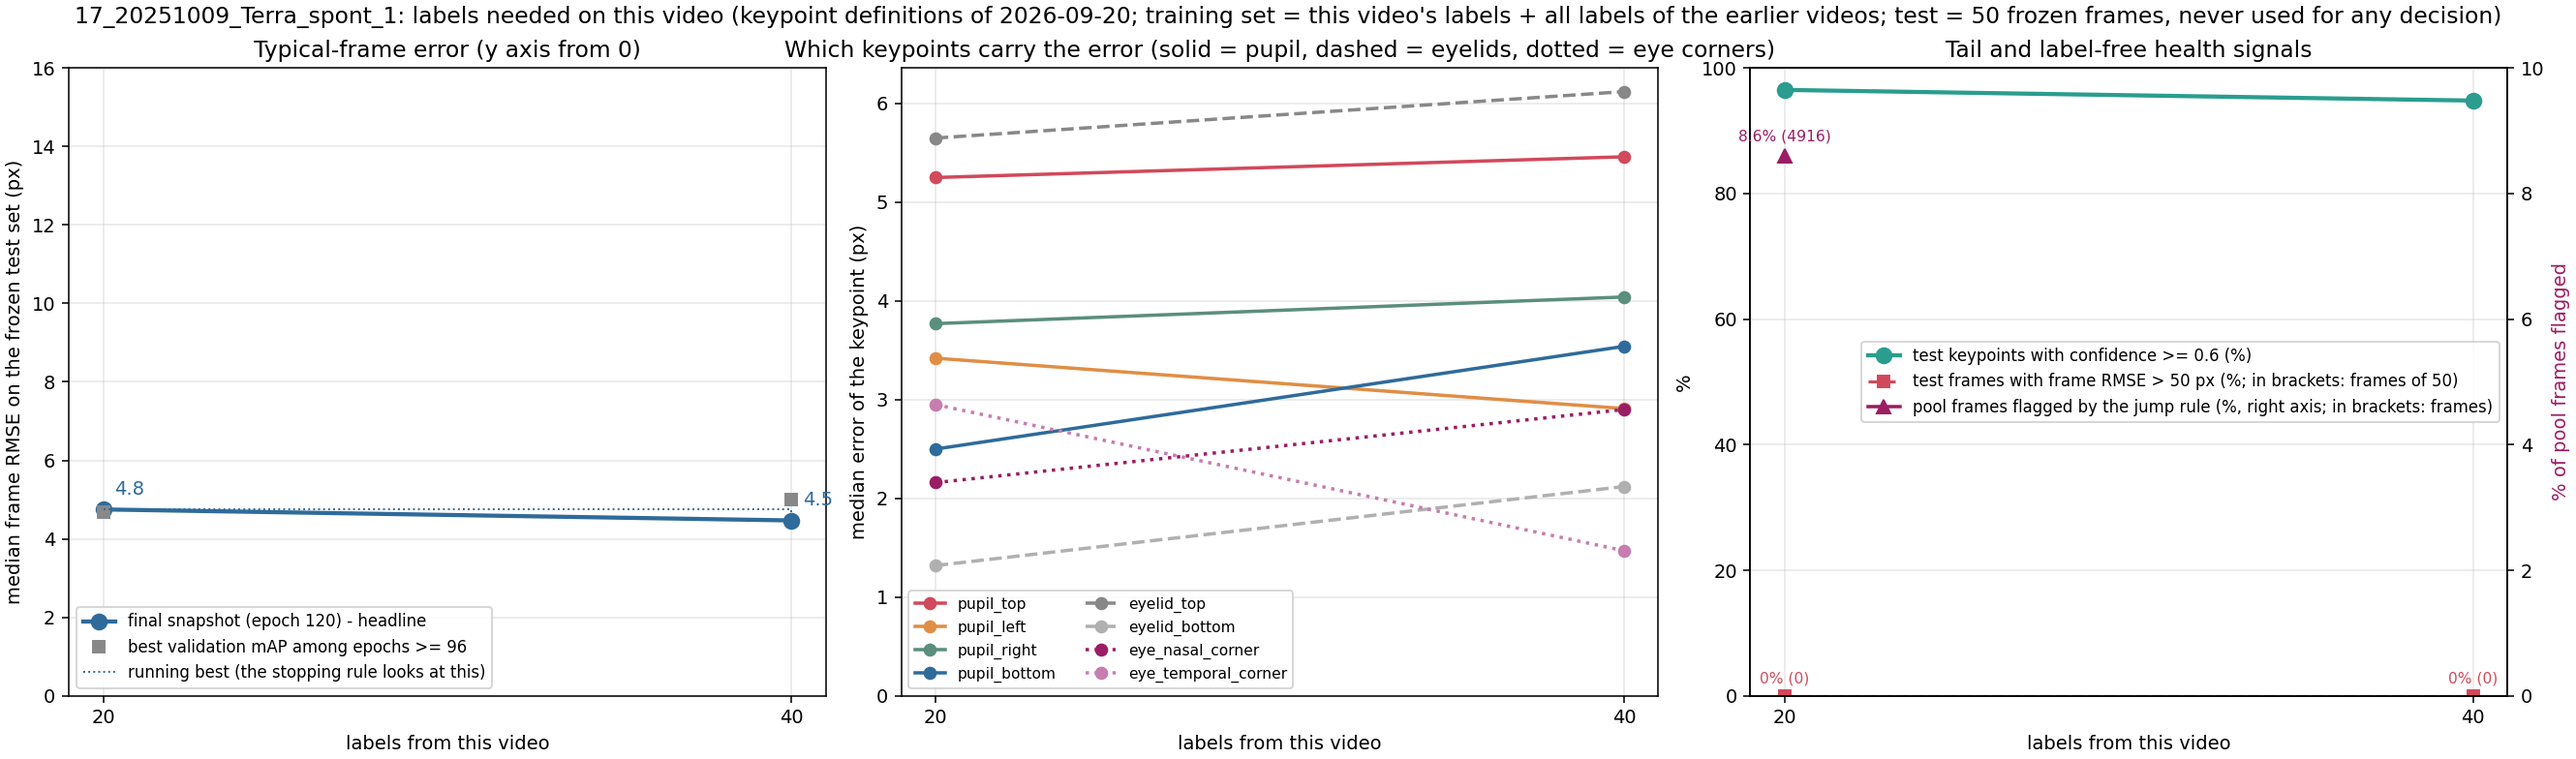
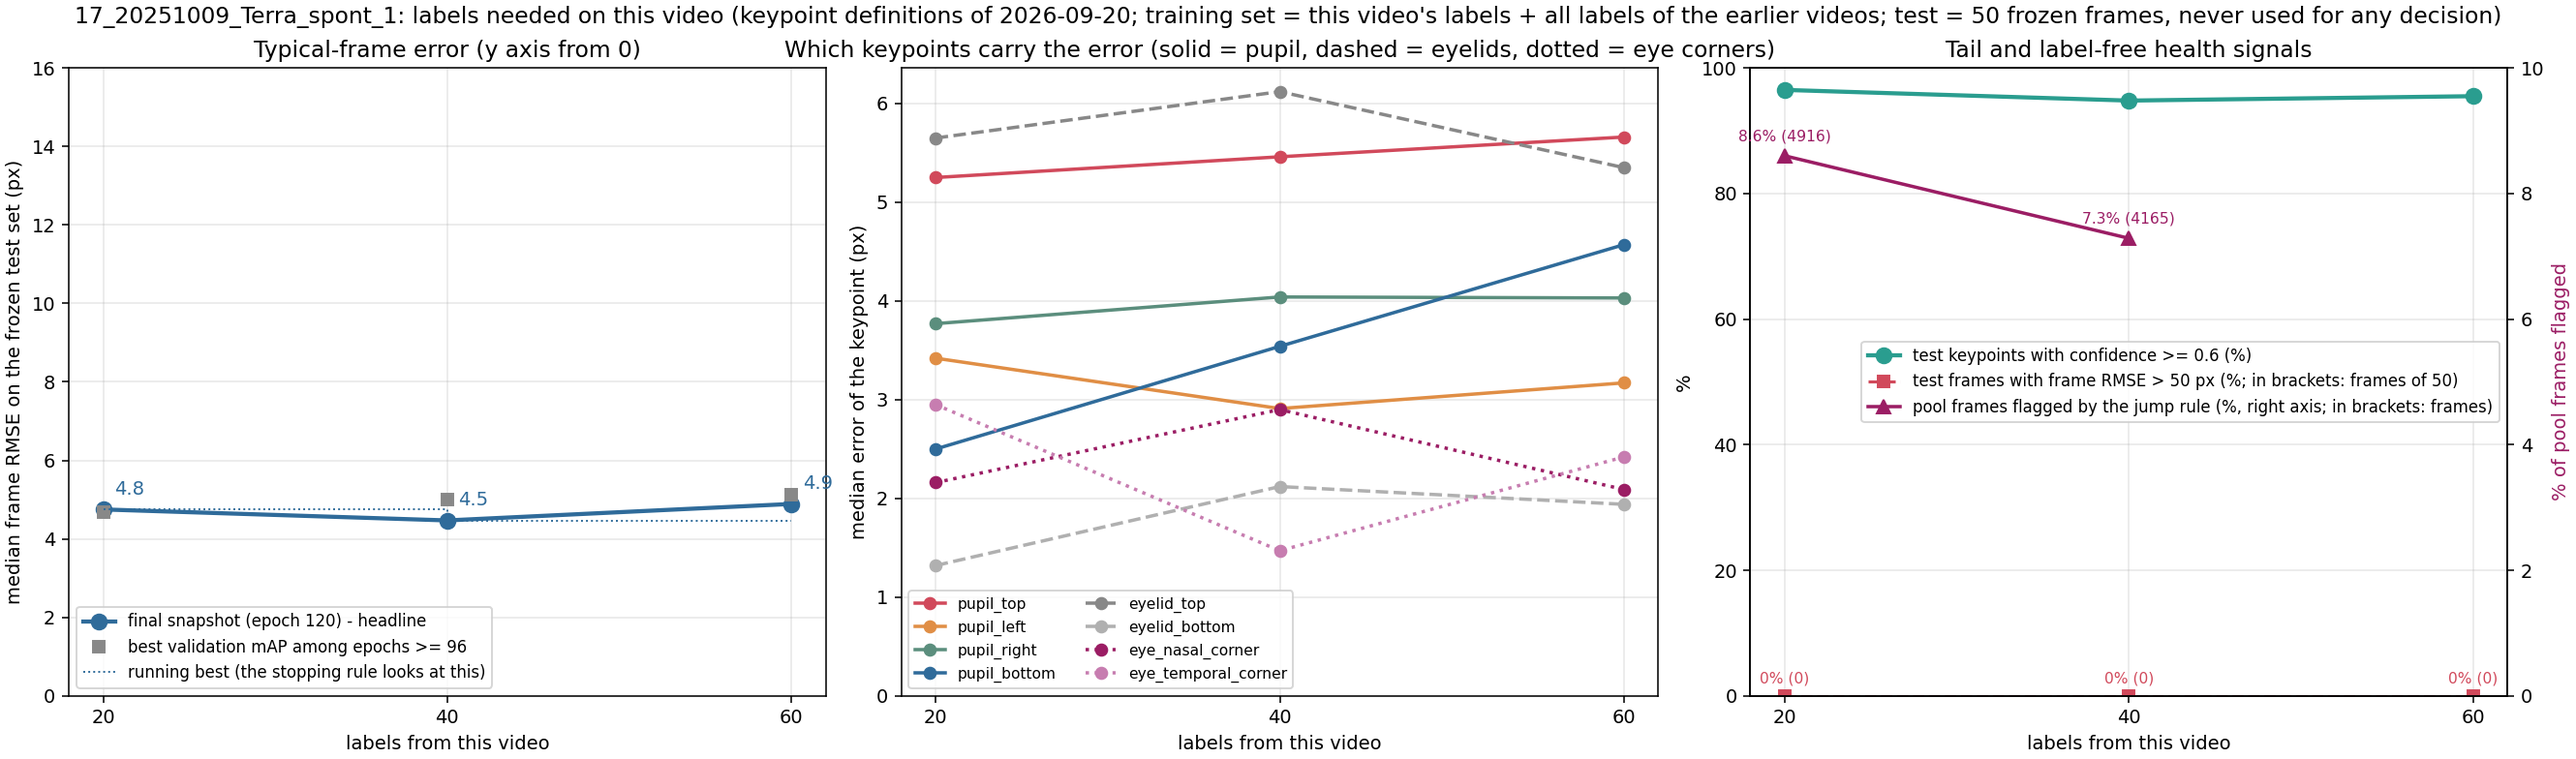
Video 17 step 3: 60 labels = 4.89 px (first step without gain over 4.47 px)

diff --git a/README.md b/README.md
@@ -31,7 +31,7 @@ per-frame predictions stay local; git carries code, documentation and audited ag
 | Finished | **video 15** (Terra, 2025-10-13, fifth video of mouse C): frames extracted model-free; test50 pre-labeled with the video-14 20-label model (1511) before video 14's plateau was known (recorded as a deviation), val20 / batch01 with the plateau model 1513; 0 labels (model 1513) = 10.57 px, 20 labels = 11.42 px, 40 labels = 9.73 px, 60 labels = 9.61 px, 80 labels = 10.24 px (0-2% of frames > 50 px); 60 within 3% of 9.73 and 80 worse, the plateau rule fired at 80; **plateau at 40 labels, 9.73 px** (user decision 2026-10-08), tag `v0.9.17-video15-plateau`; batches 1-2 (40 labels) carried, 700 labels go into video 16; batch 5 selected but not labeled. Fewer-labels: 5 labels 12.55 / 9.82 px, 10 labels 11.09 / 9.31 px (first-batch size only, no jump selection afterwards; three of the four subsets below the 20-label 11.42 px). |
 | Finished | **video 16** (Terra, 2025-10-10): test50 / val20 / batch01 extracted on 2026-10-08 (model-free) and pre-labeled with the video-15 plateau model (1612, 40 labels) and corrected by the labeler on 2026-10-08 (test50: 136 of 400 points moved), test set frozen; 0 labels (model 1612) = 11.35 px (p90 23.1, 0% of frames > 50 px, 76% of keypoints with confidence >= 0.6); 20 labels (shuffle 1711) = 7.72 px (p90 11.5, 2% of frames > 50 px, 96% confidence; 32% better than the 0-label number); batch 2 selected (only 464 of 57158 pool frames flagged by the jump rule, 0.8%: the 20-label model tracks this day smoothly) and labeled; 40 labels (shuffle 1712) = 7.15 px (p90 11.3, 0% > 50 px, 98% confidence; 7.4% better than 7.72, an improving step); batch 3 selected (347 of 57158 pool frames flagged, 0.6%) and labeled; 60 labels (shuffle 1713) = 7.26 px (p90 10.1; 1.5% worse than the running best 7.15: first step without a gain above 3%); batch 4 selected (290 flagged) and labeled; 80 labels (shuffle 1714) = 7.78 px (p90 12.2; worse than 7.15): second flat step, the plateau rule fired at 80 labels (2026-10-10 02:23), plateau point 40 labels = 7.15 px; closed on 2026-10-10 by the user's decision (tag `v0.9.18-video16-plateau`), batches 1-2 carried (740 labels into video 17). Fewer-labels: 5 labels 9.18 / 10.42 px, 10 labels 9.35 / 9.18 px (all above the 20-label 7.72 px). Training set of every step = 700 carried labels of videos 0-15 + this video's labels; shuffles 1711, 1712, ... |
 | Analysis (2026-10-04) | blink and pupil area on all 12 finished videos (`v2_new_pupil_top_video_scaling/results/blink_and_area/`): four-point area median error 6.6% (three-point 8.3%); closed eye best detected by the mean confidence of the four pupil points (27 of 28 closed frames, 4.1% of open frames flagged; the earlier rule flags 55.7%); area traces still contain tracking jumps not covered by the closure rule. Error and confidence per keypoint (`.../results/keypoint_confidence_error/`): pupil top is the least accurate point (10.9 px median) |
-| In progress | **video 17** (Terra, 2025-10-09): test50 / val20 / batch01 extracted on 2026-10-10 (model-free), pre-labeled with the video-16 plateau model (1712, 40 labels) and corrected by the labeler (test50: 76 of 400 points moved), test set frozen; 0 labels (model 1712) = 6.38 px (p90 8.7, 0% of frames > 50 px, 82% of keypoints with confidence >= 0.6); 20 labels (shuffle 1811) = 4.75 px (p90 6.7, 0% > 50 px, 96% confidence; 26% better than the 0-label number); batch 2 selected (4916 of 57158 pool frames flagged by the jump rule, 8.6%) and labeled; 40 labels (shuffle 1812) = 4.47 px (p90 6.2, 0% > 50 px, 95% confidence; 5.9% better than 20 labels, an improving step); batch 3 being selected (2026-10-10 18:53); training set of every step = 740 carried labels of videos 0-16 + this video's labels; shuffles 1811, 1812, ... |
+| In progress | **video 17** (Terra, 2025-10-09): test50 / val20 / batch01 extracted on 2026-10-10 (model-free), pre-labeled with the video-16 plateau model (1712, 40 labels) and corrected by the labeler (test50: 76 of 400 points moved), test set frozen; 0 labels (model 1712) = 6.38 px (p90 8.7, 0% of frames > 50 px, 82% of keypoints with confidence >= 0.6); 20 labels (shuffle 1811) = 4.75 px (p90 6.7, 0% > 50 px, 96% confidence; 26% better than the 0-label number); batch 2 selected (4916 of 57158 pool frames flagged by the jump rule, 8.6%) and labeled; 40 labels (shuffle 1812) = 4.47 px (p90 6.2, 0% > 50 px, 95% confidence; 5.9% better than 20 labels, an improving step); batch 3 selected (4165 of 57158 pool frames flagged, 7.3%) and labeled; 60 labels (shuffle 1813) = 4.89 px (p90 7.0, 0% > 50 px, 96% confidence; 9% worse than 40 labels, the first step without gain, one more step is run); batch 4 being selected (2026-10-10 23:27); training set of every step = 740 carried labels of videos 0-16 + this video's labels; shuffles 1811, 1812, ... |
 | Next | Terra unit 18 (2025-10-08) |
 
 ## Main results so far (era 3, `v2_new_pupil_top_video_scaling/`)

diff --git a/v2_new_pupil_top_video_scaling/17_20251009_Terra_spont_1/results/README.md b/v2_new_pupil_top_video_scaling/17_20251009_Terra_spont_1/results/README.md
@@ -17,10 +17,16 @@ limit of 320 px (eye width 495 px in that frame; kept as labeled).
 | 0 (video-16 40-label model 1712, applied unchanged) | 6.38 px | 8.7 | 0% | 82% | – |
 | 20 (shuffle 1811) | 4.75 px | 6.7 | 0% | 96% | 4916 of 57158 (8.6%) |
 | 40 (shuffle 1812) | 4.47 px | 6.2 | 0% | 95% | 4165 of 57158 (7.3%) |
+| 60 (shuffle 1813) | 4.89 px | 7.0 | 0% | 96% | pending |
 
 The other Terra models give 6.9-91 px on this test set (the video-15 60-label model 1513 is the next best at 6.88 px,
 the video-15 plateau model 1512 7.13, the video-16 60-label model 1713 7.28; `../results/cross_video_matrix.csv`).
 Step 1 (20 labels, 2026-10-10 14:59): 4.75 px, 26% better than the 0-label 6.38 px; p90 from 8.7 to 6.7 px, 96% of
 keypoints confident. Step 2 (40 labels, 2026-10-10 18:52): 4.47 px, 5.9% better than 20 labels, above the 3% bar, so it counts as an
-improving step (running best 4.47 px; the next step improves if it is below 4.34 px). Batch 3 is being selected from
+improving step (running best 4.47 px; the next step improves if it is below 4.34 px). Batch 3 was selected from
 the 40-label model's whole-video prediction.
+Step 3 (60 labels, 2026-10-10 23:26): 4.89 px, 9% worse than the running best of 4.47 px: the first step without a gain
+of more than 3%. The rule needs two such steps in a row, so one more step is run. In batch03 one frame
+(`img003154.png`, eye closed) had its top, bottom and right pupil points removed by the labeler while the pre-label
+`pupil_left` (confidence 0.20, about 400 px from the eye) was still there; with the labeler's confirmation that point
+was removed before training, so the frame has no pupil points.

diff --git a/v2_new_pupil_top_video_scaling/results/README.md b/v2_new_pupil_top_video_scaling/results/README.md
@@ -29,7 +29,7 @@ snapshot with the best validation mAP after the first learning-rate drop (epochs
 | 14 `14_20251014_Terra_spont_1` | mouse C (Terra), 19.9 min, 2025-10-14 | 600 (580 + 20 of video 13) | convention v2: 13.33 / 10.83 / 12.41 / 10.30 / 10.45 / 10.24 | **60 labels** (rule fired at 100) | 10.30 px |
 | 15 `15_20251013_Terra_spont_1` | mouse C (Terra), 19.9 min, 2025-10-13 | 660 (600 + 60 of video 14) | convention v2: 10.57 / 11.42 / 9.73 / 9.61 / 10.24 | **40 labels** (rule fired at 80) | 9.73 px |
 | 16 `16_20251010_Terra_spont_1` | mouse C (Terra), 19.9 min, 2025-10-10 | 700 (660 + 40 of video 15) | convention v2: 11.35 / 7.72 / 7.15 / 7.26 / 7.78 | **40 labels** (rule fired at 80) | 7.15 px |
-| 17 `17_20251009_Terra_spont_1` | mouse C (Terra), 19.9 min, 2025-10-09 | 740 (700 + 40 of video 16) | convention v2: 6.38 / 4.75 / 4.47 | in progress | – |
+| 17 `17_20251009_Terra_spont_1` | mouse C (Terra), 19.9 min, 2025-10-09 | 740 (700 + 40 of video 16) | convention v2: 6.38 / 4.75 / 4.47 / 4.89 | in progress | – |
 
 `labels_to_plateau.png` / `labels_to_plateau.csv` (2026-09-30): the plateau point of every video in the sequence as one figure - labels needed (left) and the error at the plateau vs the 0-label error (right); `scripts/plot_labels_to_plateau.py`. The csv is the table above in machine-readable form and is updated when a video finishes.
 
